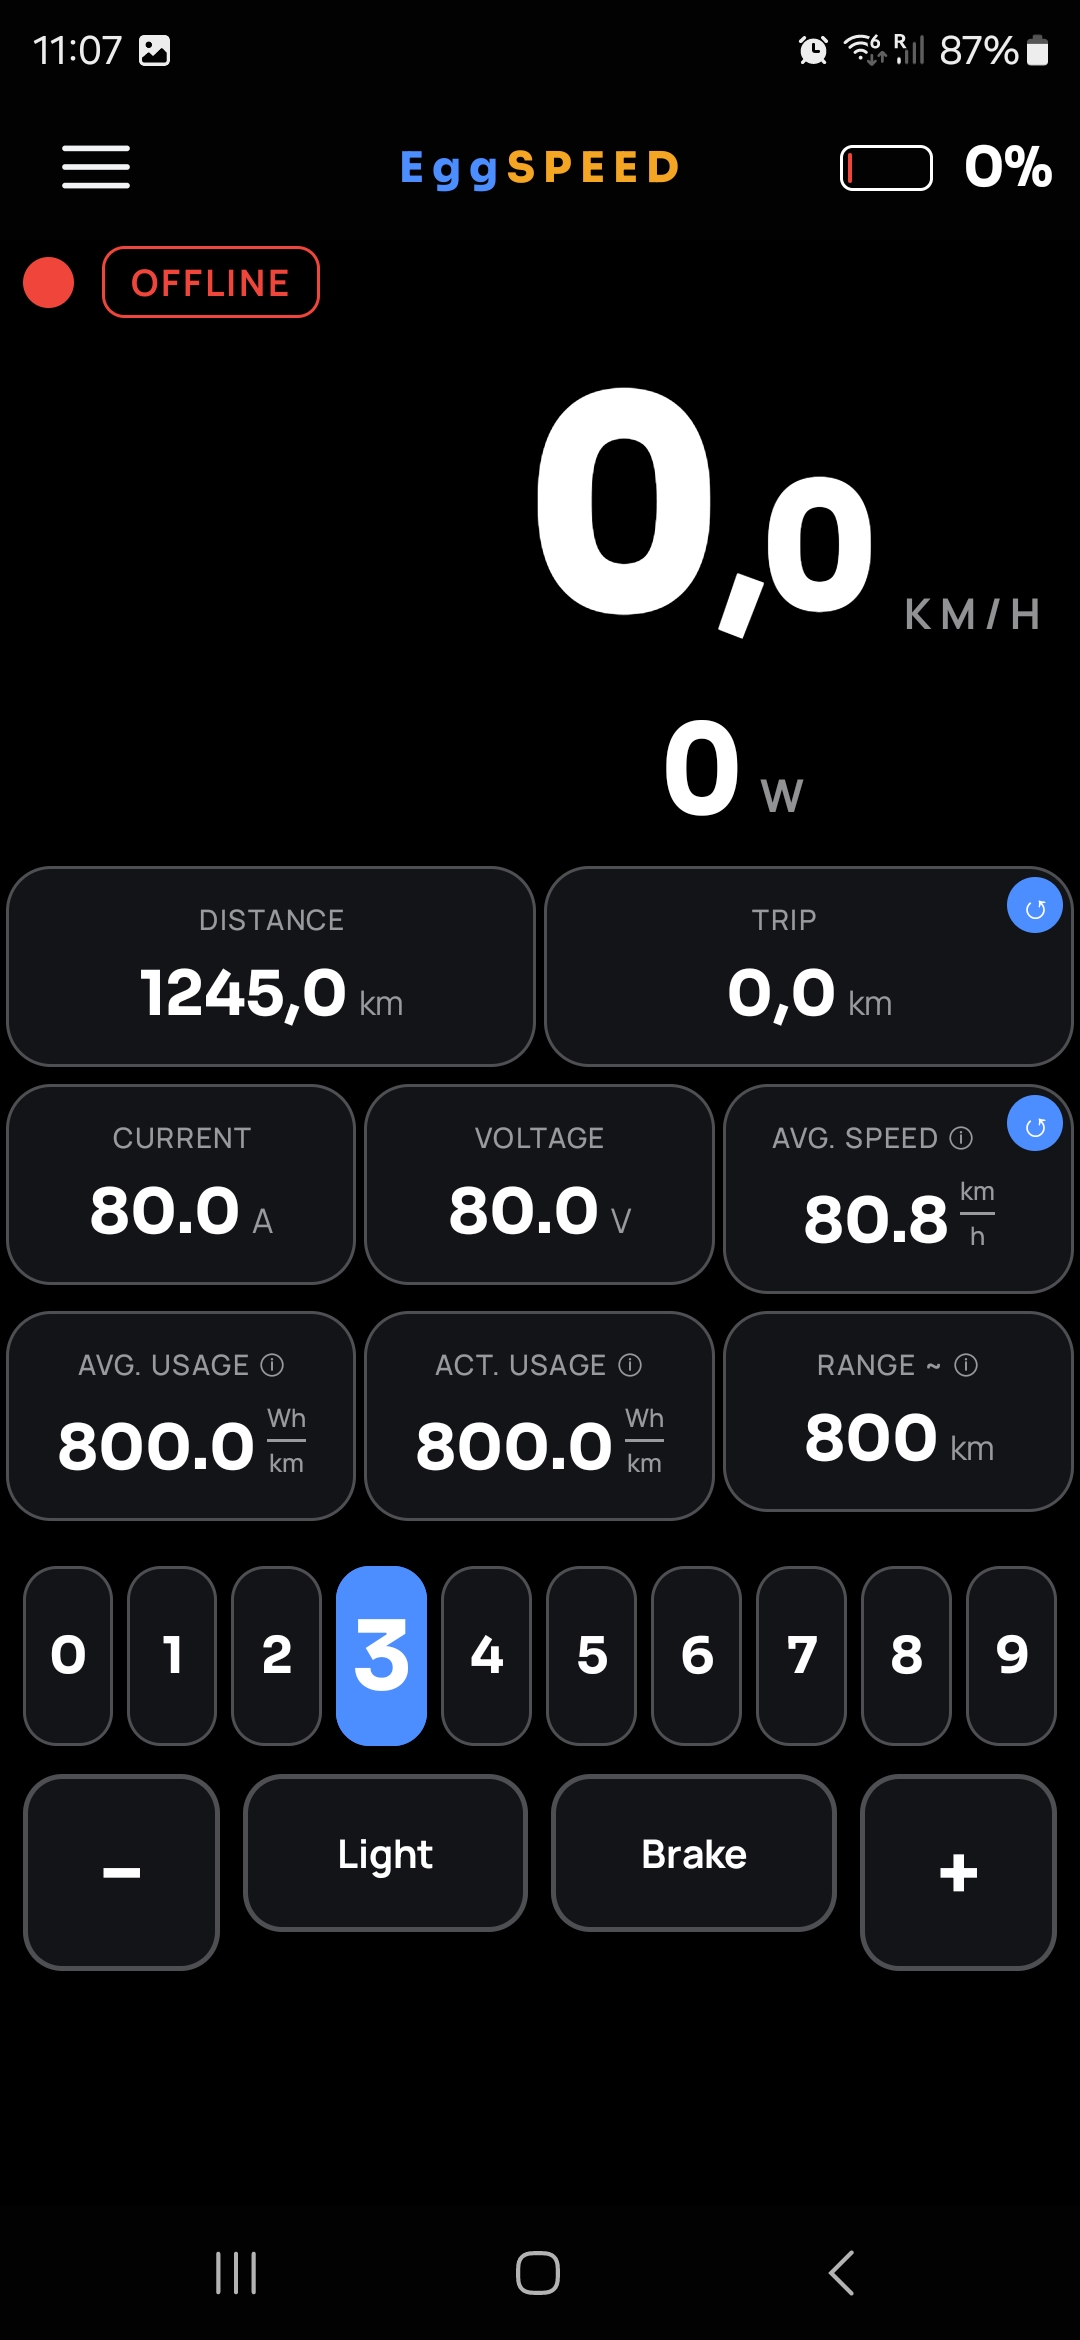
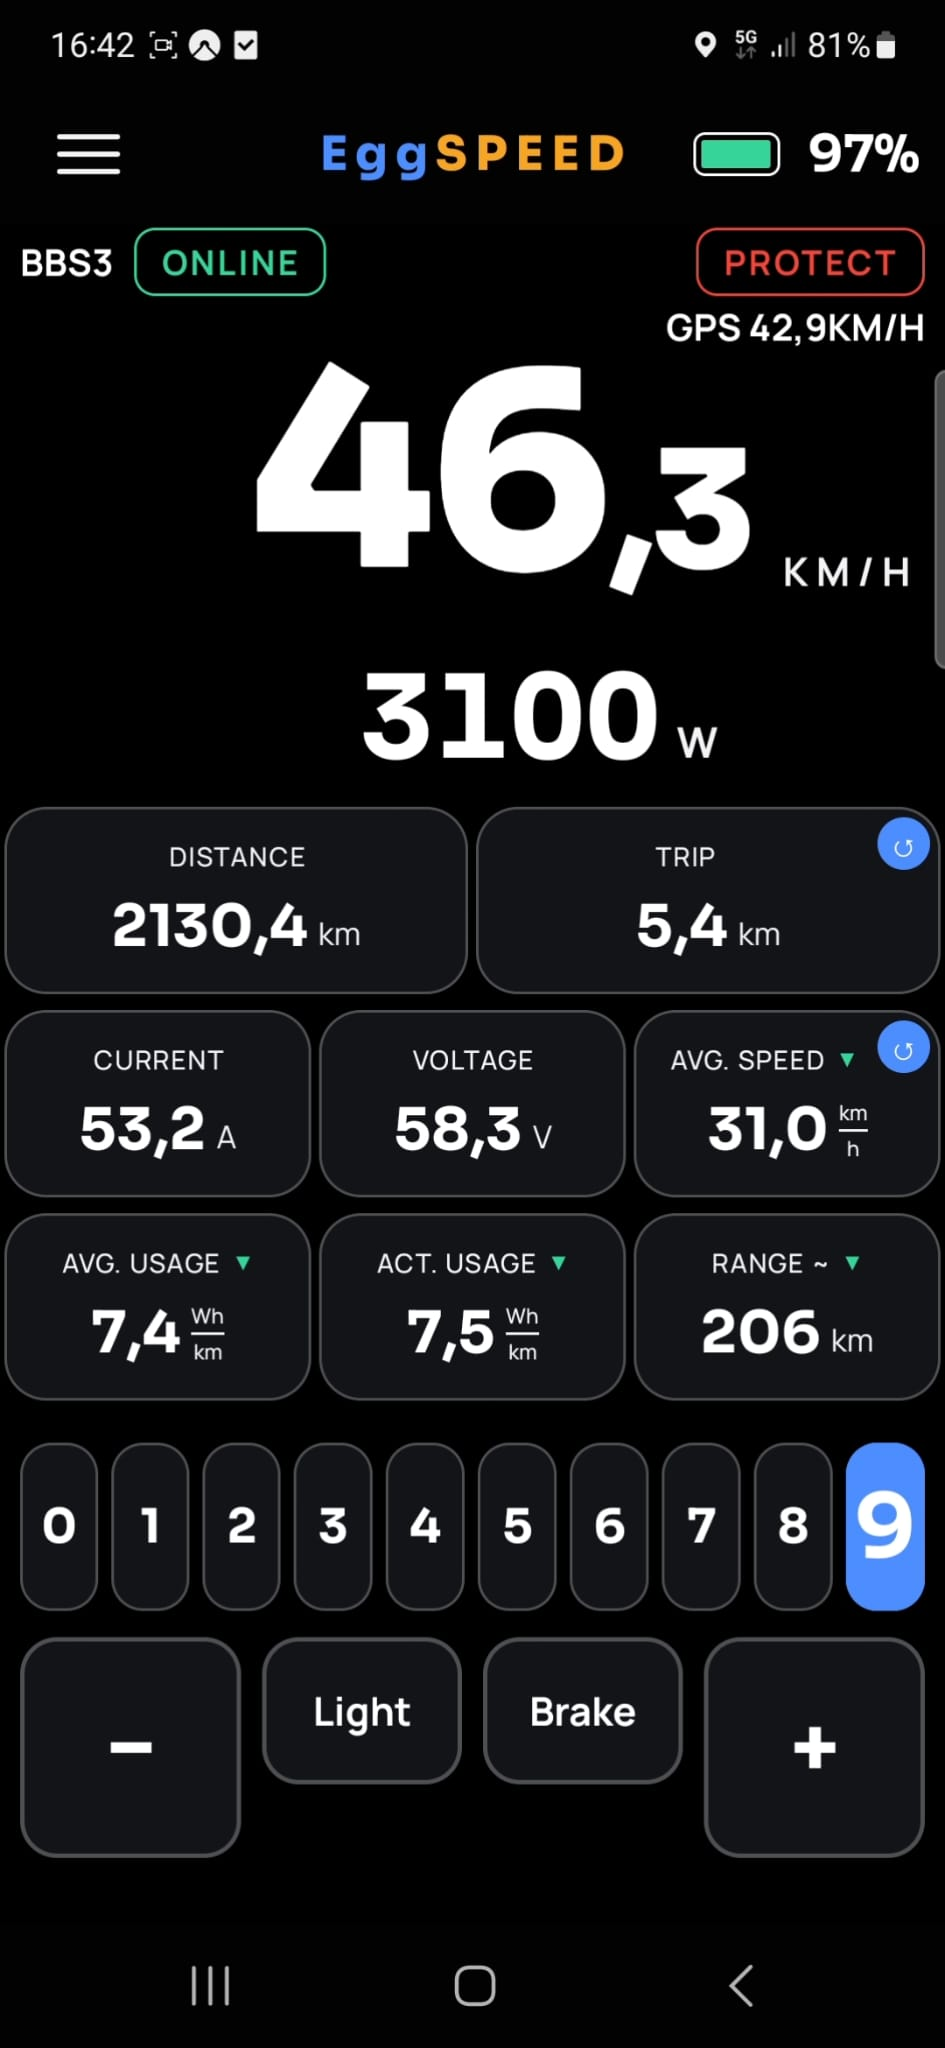
Pelna aktualizacja strony EggSPEED - produkcja na Google Play, nowe zrzuty, film, funkcje
- CTA/QR/JSON-LD zaktualizowane pod produkcyjny link Google Play (koniec closed testing)
- Podmiana zrzutow Cockpit/Connect na aktualne (GPS Speed, PROTECT), nowe sekcje: Monitoring,
  SAG Measurement, Light/Dark theme + AOD
- Dodana sekcja z osadzonym filmem demo (YouTube)
- Rozbudowana lista Features o PROTECT (Anti-COP), GPS speed, kalibracje predkosci, monitoring,
  SAG - funkcje ktorych wczesniej na stronie w ogole nie bylo
- softwareVersion w JSON-LD zaktualizowana na 0.3.58

diff --git a/eggspeed/index.html b/eggspeed/index.html
@@ -236,8 +236,8 @@
     "description": "EggSPEED reads and programs your Bafang BBS01/BBS02/BBSHD controller over USB - on factory OEM firmware or BBS-FW. Live cockpit, full configuration, assist-level tuning. Validated writes, no firmware flashing.",
     "url": "https://spotrobotics.app/eggspeed/",
     "image": "https://spotrobotics.app/icons/eggspeed.png",
-    "installUrl": "https://play.google.com/apps/testing/app.spotrobotics.eggspeed",
-    "softwareVersion": "0.3.26",
+    "installUrl": "https://play.google.com/store/apps/details?id=app.spotrobotics.eggspeed",
+    "softwareVersion": "0.3.58",
     "fileSize": "2MB",
     "offers": { "@type": "Offer", "price": "0", "priceCurrency": "USD" },
     "author": { "@type": "Person", "name": "Tomasz Pieczara" },
@@ -264,23 +264,31 @@
       <h1>Program your Bafang controller, right from your phone.</h1>
       <p class="lede">Connect over a simple USB cable and see everything your controller has stored - live cockpit, full configuration, and assist-level tuning for BBS01/BBS02/BBSHD, on factory OEM firmware or BBS-FW. No PC, no Bluetooth dongle needed.</p>
       <div class="hero-ctas">
-        <a class="btn-primary" href="https://play.google.com/apps/testing/app.spotrobotics.eggspeed" target="_blank" rel="noopener">Get the beta on Google Play &rarr;</a>
+        <a class="btn-primary" href="https://play.google.com/store/apps/details?id=app.spotrobotics.eggspeed" target="_blank" rel="noopener">Get it on Google Play &rarr;</a>
         <a class="btn-github" href="https://github.com/moskil2/EggSPEED" target="_blank" rel="noopener">View on GitHub &rarr;</a>
         <span class="badge-warn">USB OTG required</span>
       </div>
-      <p class="hero-note">EggSPEED is in closed testing - <a href="https://groups.google.com/g/eggspeed" target="_blank" rel="noopener">join the tester group</a> first, then open the Google Play link above to unlock the install button.</p>
       <div class="hero-foot mono">
-        <span>~10 MB</span>
+        <span>~2 MB</span>
         <span>&middot;</span>
         <span>Android 8.0+</span>
         <span>&middot;</span>
-        <span>Free &middot; closed testing on Google Play</span>
+        <span>Free on Google Play</span>
       </div>
       <p style="margin-top:16px; color:#6f6a5f; font-size:13.5px; max-width:520px;">Coming from the Speeed app for Bafang? EggSPEED covers the same BBS01/BBS02/BBSHD controllers with a modern, actively developed UI.</p>
     </div>
     <div class="hero-shot">
       <div class="bezel">
         <img src="img/01_Cockpit.jpg" alt="EggSPEED live cockpit with speed, power and range" width="280" height="607">
+      </div>
+    </div>
+  </section>
+
+  <!-- DEMO VIDEO -->
+  <section class="wrap" style="padding-top:0; padding-bottom:64px;">
+    <div style="max-width:800px; margin:0 auto;">
+      <div style="position:relative; padding-bottom:56.25%; height:0; border-radius:24px; overflow:hidden; box-shadow:0 30px 80px rgba(0,0,0,0.55);">
+        <iframe src="https://www.youtube.com/embed/zbL4AiccX18" title="EggSPEED demo video" style="position:absolute; top:0; left:0; width:100%; height:100%; border:0;" allow="accelerometer; autoplay; clipboard-write; encrypted-media; gyroscope; picture-in-picture" allowfullscreen loading="lazy"></iframe>
       </div>
     </div>
   </section>
@@ -351,7 +359,7 @@
         <div class="feature-card">
           <span class="feature-glyph mono">&plusmn;</span>
           <div class="title">Calibration</div>
-          <p>App-side current and voltage correction for shunt-modded controllers - nothing is changed on the controller itself.</p>
+          <p>App-side current, voltage, and speed correction for shunt-modded controllers or a slightly-off wheel size - nothing is changed on the controller itself.</p>
         </div>
         <div class="feature-card">
           <span class="feature-glyph mono">.ini</span>
@@ -362,6 +370,26 @@
           <span class="feature-glyph mono">&check;</span>
           <div class="title">Validated writes</div>
           <p>Every value is clamped to a safe range before it's sent, and the controller's own confirmation code is decoded and shown to you - never a silent failure. No firmware flashing, ever.</p>
+        </div>
+        <div class="feature-card">
+          <span class="feature-glyph mono">LOCK</span>
+          <div class="title">PROTECT (Anti-COP)</div>
+          <p>One tap silently locks assist to 0 while the Cockpit still looks and responds normally - unlocking only from a PIN-gated screen. Looks unchanged at a glance.</p>
+        </div>
+        <div class="feature-card">
+          <span class="feature-glyph mono">GPS</span>
+          <div class="title">GPS speed overlay</div>
+          <p>Optional phone-GPS speed shown right on the Cockpit alongside the controller's own reading, for an independent comparison.</p>
+        </div>
+        <div class="feature-card">
+          <span class="feature-glyph mono">~V</span>
+          <div class="title">SAG measurement</div>
+          <p>A passive Estimated SAG computed from your normal riding, plus a guided SAG Measurement procedure for a controlled, comparable battery-quality reading.</p>
+        </div>
+        <div class="feature-card">
+          <span class="feature-glyph mono">/s</span>
+          <div class="title">Live monitoring charts</div>
+          <p>Power, current, voltage, and speed plotted over time, sampled twice a second with a 10-minute rolling history - drag to scrub any point.</p>
         </div>
       </div>
     </div>
@@ -415,17 +443,43 @@
     </div>
   </section>
 
+  <!-- MONITORING HIGHLIGHT -->
+  <section class="anydevice">
+    <div>
+      <div class="eyebrow">Monitoring</div>
+      <h2>Watch every number move, in real time.</h2>
+      <p>Power, current, voltage, and speed plotted live - sampled every 0.5s with a 10-minute rolling history, each chart independently toggleable.</p>
+      <p>Drag your finger across any chart to scrub back and read the exact value (and how long ago it was) at any point in the last 10 minutes.</p>
+    </div>
+    <div class="shot-row">
+      <img src="img/18_Monitoring.jpg" alt="Monitoring screen with Power, Current, Voltage and Speed charts">
+    </div>
+  </section>
+
   <!-- BATTERY & CALIBRATION HIGHLIGHT -->
   <section class="anydevice">
     <div>
       <div class="eyebrow">Battery &amp; accuracy</div>
       <h2>Range you can actually trust.</h2>
       <p>Tell EggSPEED your cell count and capacity once, and the cockpit's range estimate blends your riding history with your current riding style - the longer the trip, the more it adapts to how you're riding right now.</p>
-      <p>Controller reading current wrong after a shunt mod? <strong>Calibration</strong> applies an app-side current and voltage correction factor - nothing is changed on the controller.</p>
+      <p>Controller reading current or speed wrong (shunt mod, slightly-off wheel size)? <strong>Calibration</strong> applies an app-side current, voltage, and speed correction factor - nothing is changed on the controller.</p>
     </div>
     <div class="shot-row">
       <img src="img/07_Battery.jpg" alt="Battery screen with cell count and capacity">
       <img src="img/09_Calibration.jpg" alt="Calibration screen with current and voltage correction">
+    </div>
+  </section>
+
+  <!-- SAG MEASUREMENT HIGHLIGHT -->
+  <section class="anydevice">
+    <div>
+      <div class="eyebrow">SAG measurement</div>
+      <h2>Know your battery's real condition.</h2>
+      <p>An <strong>Estimated SAG</strong> is calculated continuously in the background from your normal riding - no setup needed.</p>
+      <p>For a controlled, comparable number, run the guided <strong>SAG Measurement</strong>: 2 min resting, 30s at full load, 2 min resting again - EggSPEED does the timing and the math, then rates your battery's quality against a clear legend.</p>
+    </div>
+    <div class="shot-row">
+      <img src="img/20_SAG.jpg" alt="Battery SAG Measurement screen with quality legend and guided procedure">
     </div>
   </section>
 
@@ -440,6 +494,19 @@
     <div class="shot-row">
       <img src="img/11_Profiles.jpg" alt="Profiles screen with save, import and export">
       <img src="img/08_Settings.jpg" alt="Settings screen with units, odometer and test mode">
+    </div>
+  </section>
+
+  <!-- THEME & AOD HIGHLIGHT -->
+  <section class="anydevice">
+    <div>
+      <div class="eyebrow">Display &amp; lock screen</div>
+      <h2>Ride your way, day or night.</h2>
+      <p>Dark or Light theme, plus a High Contrast mode that brightens faded text for full-sun readability - switchable any time in Settings.</p>
+      <p>Optionally show speed, power, and assist right on the lock screen/AOD, so your phone can actually sleep instead of staying lit for the whole ride - a real battery saving.</p>
+    </div>
+    <div class="shot-row">
+      <img src="img/19_LightTheme.jpg" alt="EggSPEED Cockpit in Light theme">
     </div>
   </section>
 
@@ -481,7 +548,7 @@
       <span class="sep">|</span>
       <span>Android 8.0+</span>
       <span class="sep">|</span>
-      <span>~10 MB</span>
+      <span>~2 MB</span>
       <span class="sep">|</span>
       <span>USB OTG + Bafang programming cable required</span>
     </div>
@@ -492,15 +559,15 @@
     <div class="final-cta">
       <div>
         <h2>Get EggSPEED.</h2>
-        <p>Free, open configuration tool for Bafang BBS01/BBS02/BBSHD. Currently in closed testing on Google Play - <a href="https://groups.google.com/g/eggspeed" target="_blank" rel="noopener">join the tester group</a> to get access.</p>
+        <p>Free, open configuration tool for Bafang BBS01/BBS02/BBSHD. Available now on Google Play.</p>
         <div class="hero-ctas">
-          <a class="btn-outline" href="https://play.google.com/apps/testing/app.spotrobotics.eggspeed" target="_blank" rel="noopener">Get the beta on Google Play &rarr;</a>
+          <a class="btn-outline" href="https://play.google.com/store/apps/details?id=app.spotrobotics.eggspeed" target="_blank" rel="noopener">Get it on Google Play &rarr;</a>
           <a class="btn-github" href="https://github.com/moskil2/EggSPEED" target="_blank" rel="noopener">View on GitHub &rarr;</a>
         </div>
       </div>
       <div class="final-cta-qr">
-        <img src="https://api.qrserver.com/v1/create-qr-code/?size=260x260&margin=0&color=16-17-28&data=https%3A%2F%2Fplay.google.com%2Fapps%2Ftesting%2Fapp.spotrobotics.eggspeed" alt="QR code to the Google Play testing link" width="150" height="150">
-        <div class="caption mono">Scan to open the beta on Google Play</div>
+        <img src="https://api.qrserver.com/v1/create-qr-code/?size=260x260&margin=0&color=16-17-28&data=https%3A%2F%2Fplay.google.com%2Fstore%2Fapps%2Fdetails%3Fid%3Dapp.spotrobotics.eggspeed" alt="QR code to the Google Play listing" width="150" height="150">
+        <div class="caption mono">Scan to open on Google Play</div>
       </div>
     </div>
   </section>
